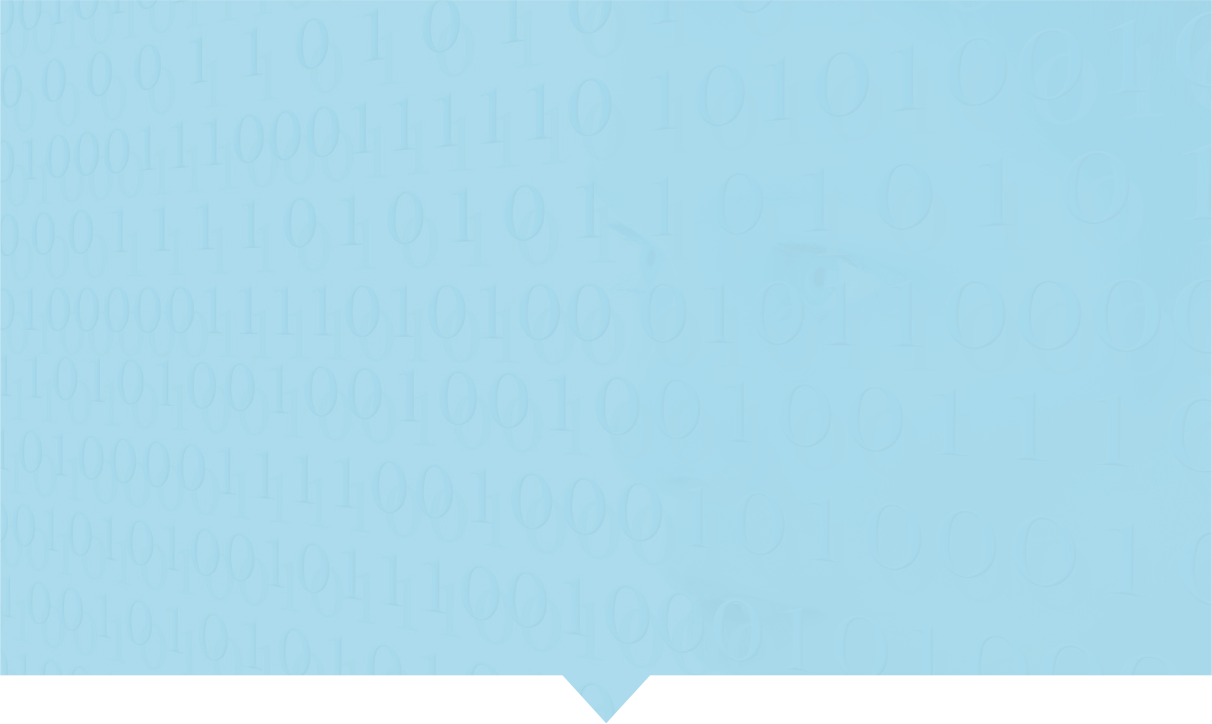
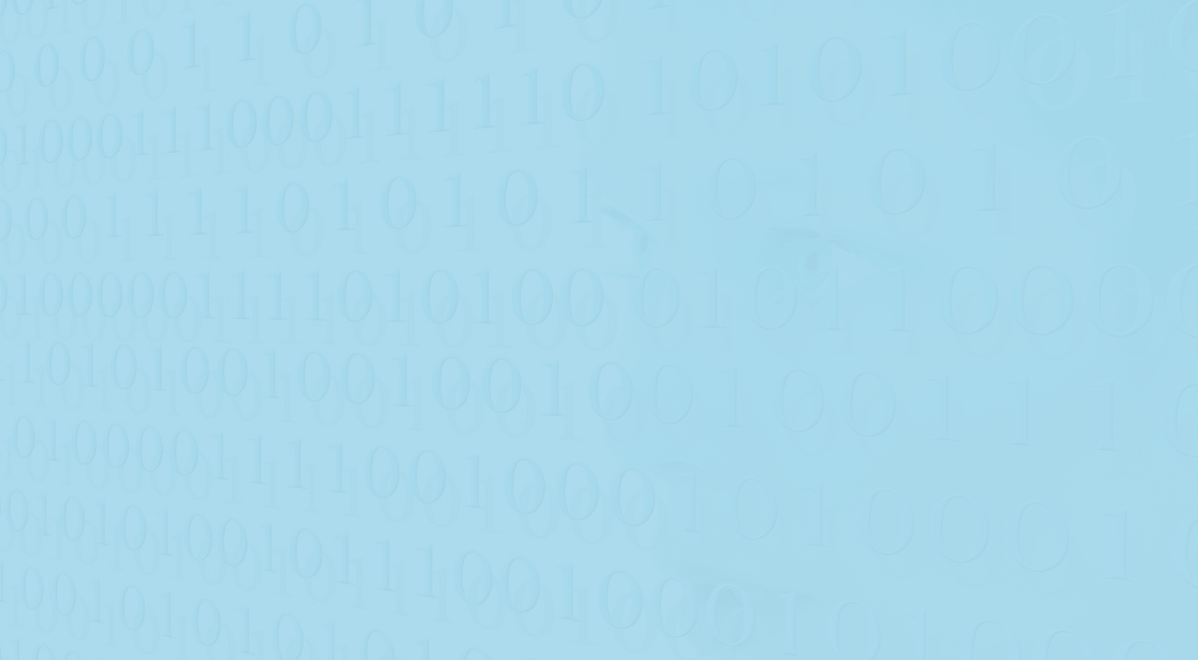
editArchitect

Changed region(s): [[0.0, 0.9091, 1.0, 1.0]]

diff --git a/src/sass/partials/_directions.scss b/src/sass/partials/_directions.scss
@@ -1,11 +1,9 @@
 .directions{
-	width: 100%;
+	height: 660px;
 	background-image: url(../img/directions.png);
 	background-position: center;
 	padding-top: 60px;
-	padding-bottom: 132px;
 	position: relative;
-	top: -52px;
 	z-index: -1;
 	h2{
 		font-family: 'PFBeauSansPro Bold', sans-serif;
@@ -116,4 +114,14 @@
 	.addApplication:active{
 		box-shadow: 0px 2px 2px 0px $dark-blue-green-shadow-color inset;
 	}
+}
+.directions::after{
+	content: url(../img/directions_after.png);
+	width: 86px;
+	height: 48px;
+	margin-left: -43px;
+	position: absolute;
+	top: 660px;
+	left: 50%;
+	z-index: -1;
 }

diff --git a/src/sass/partials/_advantages.scss b/src/sass/partials/_advantages.scss
@@ -1,12 +1,10 @@
 .advantages{
-	width: 100%;
+	height: 690px;
 	background-image: url(../img/advantages.png);
 	background-position: center;
 	padding-top: 50px;
 	position: relative;
-	top: -108px;
 	z-index: -2;
-	padding-bottom: 108px;
 	h2{
 		font-family: 'PFBeauSansPro Bold', sans-serif;
 		font-size: 24px;
@@ -116,4 +114,14 @@
 	.advantage.sixth:hover .img_sixth{
 		background-position: -103px 0;
 	}
+}
+.advantages::after{
+	content: url(../img/advantages_after.png);
+	width: 86px;
+	height: 48px;
+	margin-left: -43px;
+	position: absolute;
+	top: 690px;
+	left: 50%;
+	z-index: -2;
 }

diff --git a/src/sass/partials/_reviews.scss b/src/sass/partials/_reviews.scss
@@ -1,12 +1,10 @@
 .reviews{
-	width: 100%;
+	height: 570px;
 	background-image: url(../img/reviews.png);
 	background-position: center;
 	padding-top: 50px;
 	position: relative;
-	top: -204px;
 	z-index: -4;
-	padding-bottom: 76px;
 	h2{
 		font-family: 'PFBeauSansPro Bold', sans-serif;
 		font-size: 24px;
@@ -111,4 +109,14 @@
 	.review:hover h4{
 		color: $dark-blue-green-color;
 	}
+}
+.reviews::after{
+	content: url(../img/reviews_after.png);
+	width: 86px;
+	height: 48px;
+	margin-left: -43px;
+	position: absolute;
+	top: 570px;
+	left: 50%;
+	z-index: -4;
 }

diff --git a/src/sass/partials/_projects.scss b/src/sass/partials/_projects.scss
@@ -1,10 +1,9 @@
 .projects{
+	height: 670px;
 	background-image: url(../img/projects.png);
 	background-position: center;
 	padding-top: 50px;
-	padding-bottom: 100px;
 	position: relative;
-	top: -156px;
 	z-index: -3;
 	h2{
 		font-family: 'PFBeauSansPro Bold', sans-serif;
@@ -242,4 +241,14 @@
 	.information.information_sixth{
 		left: 318.266px;
 	}
+}
+.projects::after{
+	content: url(../img/projects_after.png);
+	width: 86px;
+	height: 48px;
+	margin-left: -43px;
+	position: absolute;
+	top: 670px;
+	left: 50%;
+	z-index: -3;
 }

diff --git a/src/sass/partials/_join_us.scss b/src/sass/partials/_join_us.scss
@@ -1,8 +1,8 @@
 .join_us{
+	height: 670px;
 	background-image: url(../img/join_us.png);
 	background-position: center;
 	padding-top: 10px;
-	padding-bottom: 224px;
 	position: relative;
 	z-index: 1;
 	.info{
@@ -92,4 +92,14 @@
 	.test:active{
 		box-shadow: 0px 4px 4px 0px $dark-purple-shadow-color inset;
 	}
+}
+.join_us::after{
+	content: url(../img/join_us_after.png);
+	width: 86px;
+	height: 48px;
+	margin-left: -43px;
+	position: absolute;
+	top: 670px;
+	left: 50%;
+	z-index: 1;
 }

diff --git a/src/sass/partials/_partners.scss b/src/sass/partials/_partners.scss
@@ -1,11 +1,9 @@
 .partners{
-	width: 100%;
+	height: 260px;
 	background-color: $base-light-color;
 	padding-top: 50px;
 	position: relative;
-	top: -252px;
 	z-index: -5;
-	padding-bottom: 20px;
 	h2{
 		font-family: 'PFBeauSansPro Bold', sans-serif;
 		font-size: 24px;

diff --git a/src/sass/partials/_common.scss b/src/sass/partials/_common.scss
@@ -11,7 +11,7 @@ body{
 }
 
 .internship{
-   /*background-image: url("../img/internship.png");
+  /*background-image: url("../img/internship.png");
   background-repeat: no-repeat;*/
   background-size: 100%;
   margin-top: 50px;

diff --git a/src/sass/partials/_footer.scss b/src/sass/partials/_footer.scss
@@ -3,8 +3,6 @@
 	height: 260px;
 	padding-top: 60px;
 	background-color: $dark-blue-green-color;
-	position: absolute;
-	bottom: -3600px;
 	.contacts{
 		
 	}
